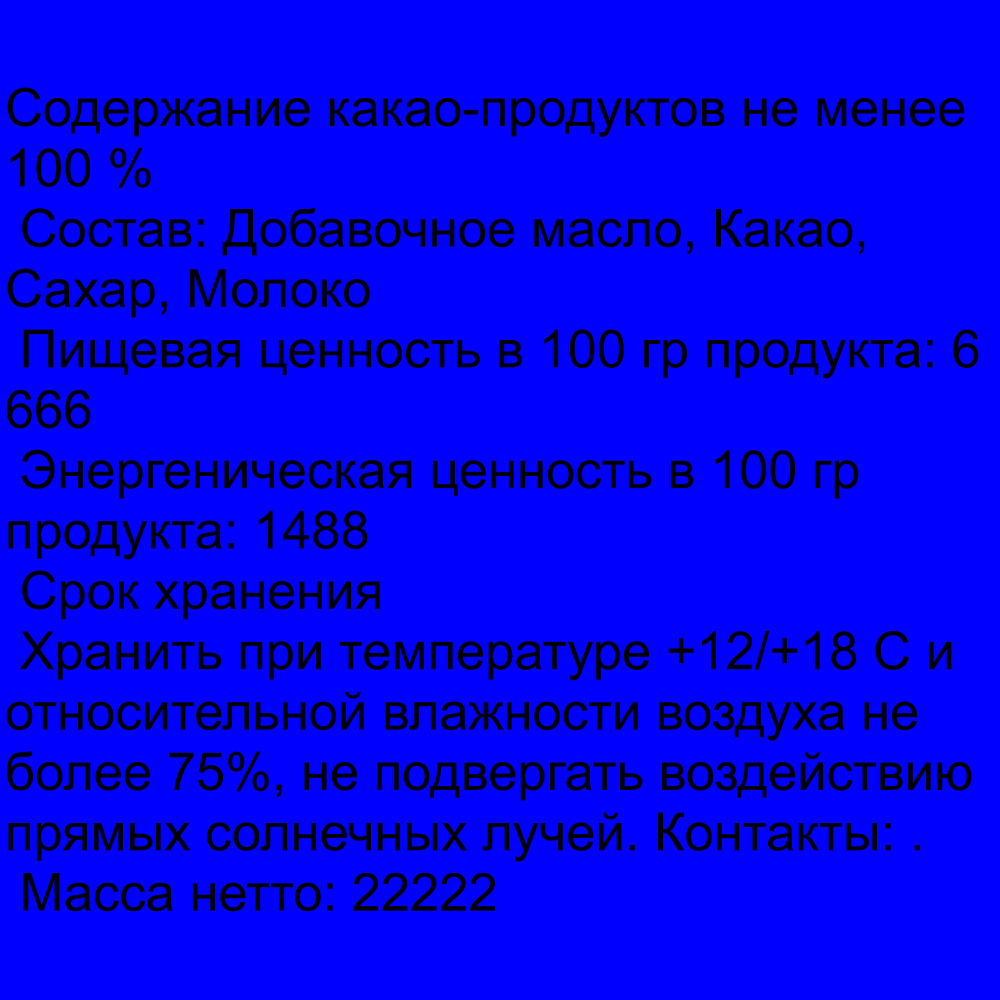
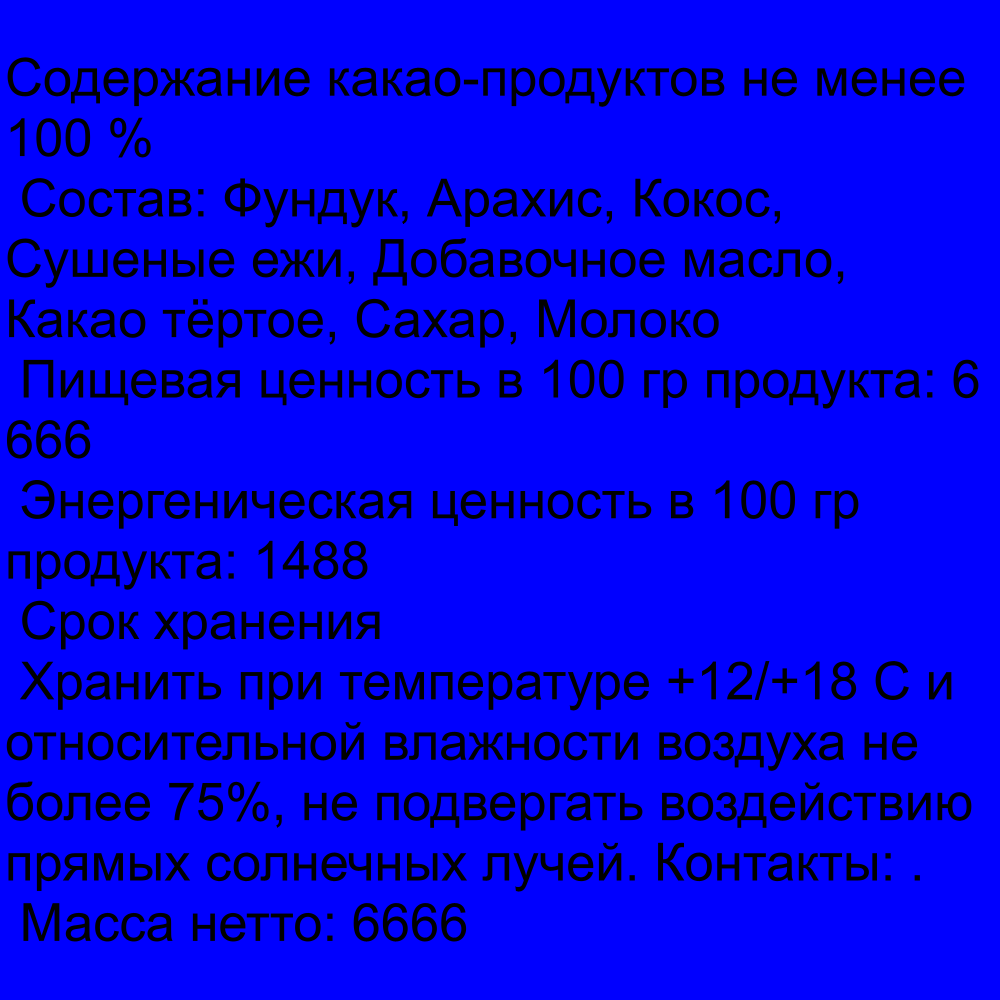
Slepp

Changed region(s): [[0.0, 0.062, 0.992, 0.961]]

diff --git a/wwwroot/js/site.js b/wwwroot/js/site.js
@@ -6,9 +6,26 @@ function toggleButton() {
     const [mass, sugarpercent, milkpercent, fatpercent, cocoapercent] = [
         'mass', 'sugarpercent', 'milkpercent', 'fatpercent', 'cocoapercent'
     ].map(x => document.getElementsByName(x)[0]);
-
+    
     const send_btn = document.getElementById('send');
     const commonPercent = parseInt(sugarpercent.value) + parseInt(milkpercent.value) + parseInt(fatpercent.value) + parseInt(cocoapercent.value);
+    console.log('before if', commonPercent);
+    if (commonPercent === 100) {
+        send_btn.disabled = false;
+        console.log('button unlock');
+    } else {
+        send_btn.disabled = true;
+        console.log('button lock');
+    }
+}
+
+function toggleButton2() {
+    const cocoa = document.getElementById('cocoa');
+    const fat = document.getElementById('fat');
+    const sugar = document.getElementById('sugar');
+    const milk = document.getElementById('milk');
+    const send_btn = document.getElementById('send_base');
+    const commonPercent = parseInt(sugar.value) + parseInt(milk.value) + parseInt(fat.value) + parseInt(cocoa.value);
     console.log('before if', commonPercent);
     if (commonPercent === 100) {
         send_btn.disabled = false;

diff --git a/wwwroot/css/styles.css b/wwwroot/css/styles.css
@@ -10,7 +10,7 @@ main_href {
     top: 0px;
     z-index: 500;
     position: fixed;
-    height: 6%;
+    height: 7.5%;
     width: 100%
 }
 
@@ -53,15 +53,20 @@ h2 {
     text-align: center;
 
 }
+.KTS_href {
+    font-family: Helvetica, Arial, sans-serif;
+    background-color: #EF1702;
+    color: white;
+}
 
 .compound {
     width: 15%;
-    height : 90%;
+    height : 93%;
     overflow-y: scroll;
     scroll-behavior: smooth;
     color: #707070;
     right: 0;
-    top: 6%;
+    top: 7%;
     position: fixed;
     background-color: #82C777;
 }
@@ -99,11 +104,11 @@ a {
     z-index: 400;
     text-align: center;
     color: #000000;
-    top: 6%;
+    top: 7.5%;
     left: 0px;
     border-bottom: 1px solid #ffffff;
     width: 85%;
-    height: 20%;
+    height: 0%;
 }
 
 .toolbar_inner {

diff --git a/GRASP/RecipeMaker.cs b/GRASP/RecipeMaker.cs
@@ -4,10 +4,12 @@ namespace FUNTIK.GRASP
 {
     public interface IRecipeMaker
     {
+        public Recipe Recipe { get; set; }
+        public void GetBaseMetaIngredients(List<MetaIngredient> baseMetaIngredients);
         public void UpdateRecipeBase(Dictionary<string, int> baseParams);
         public void AddIngredients(List<Ingredient> ingredients);
         public bool DeleteIngredient(Ingredient ingredient);
-
+        public void CompileRecipe();
     }
 
     public class KrasnayaTsenaRecipeMaker : IRecipeMaker
@@ -24,9 +26,9 @@ namespace FUNTIK.GRASP
         public Ingredient cocoaDustIng;
         public Ingredient cocoaIng;
 
-        public Recipe Recipe = new();
+        public Recipe Recipe { get; set;} = new Recipe();
 
-        public KrasnayaTsenaRecipeMaker(List<MetaIngredient> baseMetaIngredients)
+        public void GetBaseMetaIngredients(List<MetaIngredient> baseMetaIngredients)
         {
             dryMilk = baseMetaIngredients.First(x => x.Name == "Молоко сухое");
             cocoa = baseMetaIngredients.First(x => x.Name == "Какао тёртое");
@@ -48,7 +50,7 @@ namespace FUNTIK.GRASP
             var cocoaP = baseParams["cocoaP"];
             var fatsP = baseParams["fatsP"];
             var sugarP = baseParams["sugarP"];
-            var milkP = baseParams["dryMilkP"];
+            var milkP = baseParams["milkP"];
             var cocoaDustP = baseParams["cocoaDustP"];
 
             Recipe.Mass = mass;
@@ -59,13 +61,16 @@ namespace FUNTIK.GRASP
             cocoaIng.WeightInGrams = cocoaP * mass / 100;
             sugarIng.WeightInGrams = sugarP * mass / 100;
             dryMilkIng.WeightInGrams = milkP * mass / 100;
-            AddIngredients(new List<Ingredient> { addedFatsIng, cocoaIng, sugarIng, dryMilkIng, cocoaDustIng });
+            //AddIngredients(new List<Ingredient> { addedFatsIng, cocoaIng, sugarIng, dryMilkIng, cocoaDustIng });
 
         }
 
         public void AddIngredients(List<Ingredient> ingredients)
         {
-            Recipe.Ingredients = Recipe.Ingredients.Concat(ingredients).ToList();
+            if (ingredients.Count == 0)
+                return;
+            var type = ingredients[0].MetaIngredient.Type;
+            Recipe.Ingredients = Recipe.Ingredients.Where(x => x.MetaIngredient.Type != type).Concat(ingredients).ToList();
         }
 
         public void AddIngredient(Ingredient ingredient)
@@ -82,6 +87,13 @@ namespace FUNTIK.GRASP
             }
             return false;
         }
+
+
+
+        public void CompileRecipe()
+        {
+            AddIngredients(new List<Ingredient> { addedFatsIng, cocoaIng, sugarIng, dryMilkIng, cocoaDustIng });
+        }
     }
 
 
@@ -97,9 +109,9 @@ namespace FUNTIK.GRASP
         public Ingredient addedFatsIng;
         public Ingredient sugarIng;
 
-        public Recipe Recipe = new();
+        public Recipe Recipe { get; set; } = new();
 
-        public RecipeMaker(List<MetaIngredient> baseMetaIngredients)
+        public void GetBaseMetaIngredients(List<MetaIngredient> baseMetaIngredients)
         {
             milk = baseMetaIngredients.First(x => x.Name == "Молоко");
             cocoa = baseMetaIngredients.First(x => x.Name == "Какао тёртое");
@@ -128,13 +140,15 @@ namespace FUNTIK.GRASP
             cocoaIng.WeightInGrams = cocoaP * mass / 100;
             sugarIng.WeightInGrams = sugarP * mass / 100;
             milkIng.WeightInGrams = milkP * mass / 100;
-            AddIngredients(new List<Ingredient> { addedFatsIng, cocoaIng, sugarIng, milkIng });
-
+            //AddIngredients(new List<Ingredient> { addedFatsIng, cocoaIng, sugarIng, milkIng });
         }
-        
+
         public void AddIngredients(List<Ingredient> ingredients)
         {
-            Recipe.Ingredients = Recipe.Ingredients.Concat(ingredients).ToList();
+            if (ingredients.Count == 0)
+                return;
+            var type = ingredients[0].MetaIngredient.Type;
+            Recipe.Ingredients = Recipe.Ingredients.Where(x => x.MetaIngredient.Type != type).Concat(ingredients).ToList();
         }
 
         public void AddIngredient(Ingredient ingredient)
@@ -150,6 +164,11 @@ namespace FUNTIK.GRASP
                 return true;
             }
             return false;
+        }
+
+        public void CompileRecipe()
+        {
+            AddIngredients(new List<Ingredient> { addedFatsIng, cocoaIng, sugarIng, milkIng });
         }
     }
 }

diff --git a/Pages/KTSNewRecipe.cshtml.cs b/Pages/KTSNewRecipe.cshtml.cs
@@ -13,7 +13,7 @@ using System.Reflection;
 namespace FUNTIK.Pages
 {
 
-    public class NewRecipeModel : PageModel
+    public class KTSNewRecipeModel : PageModel
     {
         public string Message { get; set; }
 
@@ -32,7 +32,7 @@ namespace FUNTIK.Pages
         public IRecipeMaker RecipeMaker;
 
 
-        public NewRecipeModel(IEnumerable<IRecipeMaker> RecipeMakers, IMetaIngredientRepository metaIngredientRepository, IUserRepository userRepository, ISessionHelper sessionHelper)
+        public KTSNewRecipeModel(IEnumerable<IRecipeMaker> RecipeMakers, IMetaIngredientRepository metaIngredientRepository, IUserRepository userRepository, ISessionHelper sessionHelper)
         {
             Message = "";
             this.metaIngredientRepository = metaIngredientRepository;
@@ -44,7 +44,7 @@ namespace FUNTIK.Pages
             Infusions = metaIngredientRepository.FindInfusions();
             CandedFruits = metaIngredientRepository.FindCandedFruits();
             Custom = metaIngredientRepository.FindCustom();
-            RecipeMaker = RecipeMakers.First();
+            RecipeMaker = RecipeMakers.ElementAt(1);
             RecipeMaker.GetBaseMetaIngredients(Base);
             //UserDa = userRepository.FindUserByEmail(User.Identity.Name);
             MessageDict = new()
@@ -70,7 +70,7 @@ namespace FUNTIK.Pages
         public void RestoreSession()
         {
             var name = User.Identity.Name;
-            var model = (NewRecipeModel)sessionHelper.GetItem(name);
+            var model = (KTSNewRecipeModel)sessionHelper.GetItem(name);
             if (model != null)
             {
                 CopyFields(model, this);
@@ -96,19 +96,16 @@ namespace FUNTIK.Pages
 
         public void OnPostBase(List<int> baseParam)
         {
-            /*PictureSender sender = new PictureSender();
-            sender.Share("hhh", "work");*/
-
             var baseDict = new Dictionary<string, int>()
             {
                 ["mass"] = baseParam[0], ["cocoaP"] = baseParam[1],
                 ["fatsP"] = baseParam[2], ["sugarP"] = baseParam[3],
-                ["milkP"] = baseParam[4]
+                ["milkP"] = baseParam[4], ["cocoaDustP"] = baseParam[5]
             };
             RestoreSession();
             RecipeMaker.UpdateRecipeBase(baseDict);
             MessageDict[IngredientType.Base] = $"{RecipeMaker.Recipe.Mass} " +
-                    $"{baseParam[4]} {baseParam[1]} {baseParam[3]} {baseParam[2]}";
+                    $"{baseParam[4]} {baseParam[1]} {baseParam[3]} {baseParam[2]} {baseParam[5]}";
             //Message = "Вы выбрали: " + String.Join("\n", MessageDict.Select(x => x.Value).ToArray());
             RewriteMessage();
 			var name = User.Identity.Name;
@@ -145,6 +142,7 @@ namespace FUNTIK.Pages
                     $"{choco_base[1]} гр какао;<br/>" +
                     $"{choco_base[3]} гр сахара;<br/>" +
                     $"{choco_base[2]} гр какао-масла.<br/>" +
+                    $"{choco_base[5]} гр какао-масла.<br/>" +
                     $"<br/>";
 
             foreach (var type in MessageDict.Keys)
@@ -173,7 +171,7 @@ namespace FUNTIK.Pages
             sessionHelper.AddRenewItem(name, this);
         }
 
-        public IActionResult OnPostFinal()
+        public void OnPostFinal()
         {
             RestoreSession();
             RecipeMaker.CompileRecipe();
@@ -181,7 +179,6 @@ namespace FUNTIK.Pages
             var lablstr = LM.CreateLabelString();
             var label = LM.CreateLabel(lablstr);
             LM.SaveImage(label);
-            return Redirect("https://localhost:44396/EditFile");
         }
 
         public void OnGet()

diff --git a/GRASP/LabelMaker.cs b/GRASP/LabelMaker.cs
@@ -21,7 +21,7 @@ namespace FUNTIK.GRASP
 
         public string CreateLabelString()
         {
-            return $"Содержание какао-продуктов не менее { recipe.CacaoPercent} % \n Состав: { String.Join(", ", recipe.Ingredients.Select(x => x.MetaIngredient.Name).ToArray()) } \n Пищевая ценность в 100 гр продукта: 6666 \n Энергеническая ценность в 100 гр продукта: 1488 \n Срок хранения { recipe.ShelfLife } \n Хранить при температуре +12/+18 С и относительной влажности воздуха не более 75%, не подвергать воздействию прямых солнечных лучей. Контакты: { user.Contacts }. \n Масса нетто: { recipe.Mass }";
+            return $"Содержание какао-продуктов не менее { recipe.CacaoPercent} % \n Состав: { String.Join(", ", recipe.Ingredients.Select(x => x.Name).ToArray()) } \n Пищевая ценность в 100 гр продукта: 6666 \n Энергеническая ценность в 100 гр продукта: 1488 \n Срок хранения { recipe.ShelfLife } \n Хранить при температуре +12/+18 С и относительной влажности воздуха не более 75%, не подвергать воздействию прямых солнечных лучей. Контакты: { user.Contacts }. \n Масса нетто: { recipe.Mass }";
         }
 
         public string AddCookingDate(string labelString, string cookingDate)

diff --git a/Pages/EditFile.cshtml.cs b/Pages/EditFile.cshtml.cs
@@ -1,0 +1,38 @@
+using Microsoft.AspNetCore.Authorization;
+using Microsoft.AspNetCore.Mvc.RazorPages;
+using FUNTIK.Models.Repositories;
+using FUNTIK.Models;
+using Microsoft.AspNetCore.Mvc;
+
+namespace FUNTIK.Pages;
+
+public class EditFileModel : PageModel
+{
+    
+    private readonly IWebHostEnvironment _hostenvironment;
+    public EditFileModel(IWebHostEnvironment webHostEnvironment)
+    {
+        _hostenvironment = webHostEnvironment;
+    }
+
+    [BindProperty]
+    public FileViewModel FileUpload { get; set; }
+    public void OnGet()
+    {
+
+        FileUpload = new FileViewModel();
+        FileUpload.FolderFileName = "success1.png";
+        FileUpload.FolderFilePath = "succsess1.png";
+    }
+    public FileResult OnGetDownloadFileFromFolder(string fileName)
+    {
+        //Build the File Path.
+        string path = "Labels/" + fileName;
+        //Read the File data into Byte Array.
+        byte[] bytes = System.IO.File.ReadAllBytes(@"D:\Funticcc\Labels\succsess1.png");
+        //D:\Funticcc\Labels\succsess1.png
+        //Send the File to Download.
+        return File(bytes, "application/octet-stream", fileName);
+    }
+}
+

diff --git a/Models/Repositories/PictureHandler.cs b/Models/Repositories/PictureHandler.cs
@@ -1,0 +1,32 @@
+using FUNTIK.Data;
+using Microsoft.EntityFrameworkCore;
+using System.Net;
+using System.Net.Mail;
+
+namespace FUNTIK.Models.Repositories
+{
+    public interface IPictureHandler
+    {
+        void Share(string picture, string details);
+    }
+
+    public class PictureSender : IPictureHandler
+    {
+        public void Share(string picture, string details)
+        {
+            const string smtpHostAddress = "smtp.gmail.com";
+            const string adminEmailAddress = "funtiknoreply@gmail.com";
+            const string adminEmailPassword = "Amnamnam2912#!";
+
+            var smtpClient = new SmtpClient(smtpHostAddress)
+            {
+                Port = 587,
+                Credentials = new NetworkCredential(adminEmailAddress, adminEmailPassword),
+            };
+
+            smtpClient.Send(adminEmailAddress, "fornatasha12345@gmail.com", "subject", "body");
+        }
+
+
+    }
+}

diff --git a/Pages/MainPage.cshtml.cs b/Pages/MainPage.cshtml.cs
@@ -15,13 +15,6 @@ namespace FUNTIK.Pages
             this.context = context;
             var recipeRepository = new RecipeRepository(context);
             var r = new Recipe { Name = "Шоколад С кофе" };
-            /*var bace = new Ingredient { Name = "Какая-то основа", Type = IngredientType.Base };
-            var coffee = new Ingredient { Name = "Кофе", Type = IngredientType.Custom };
-            var sugar = new Ingredient { Name = "Сахар" };
-            r.Ingredients.Add(bace);
-            r.Ingredients.Add(coffee);
-            r.Ingredients.Add(sugar);
-            recipeRepository.Create(r);*/
         }
 
         public void OnGet()

diff --git a/Program.cs b/Program.cs
@@ -58,14 +58,17 @@ builder.Services.AddScoped<IUserRepository, UserRepository>();
 
 builder.Services.AddSingleton<ISessionHelper, SessionHelper>();
     
+builder.Services.AddScoped<IRecipeMaker, RecipeMaker>();
+
+builder.Services.AddScoped<IRecipeMaker, KrasnayaTsenaRecipeMaker>();
 
 
 
- var app = builder.Build();
+var app = builder.Build();
 
 
 using (var scope = app.Services.CreateScope())
-{
+    {
     var services = scope.ServiceProvider;
     var context = services.GetRequiredService<ApplicationDbContext>();
     context.Database.Migrate();

diff --git a/Models/FileClass.cs b/Models/FileClass.cs
@@ -1,0 +1,13 @@
+public class AppFile
+{
+    public int Id { get; set; }
+    public string FileName { get; set; }
+    public byte[] Content { get; set; }
+}
+public class FileViewModel
+{
+   
+    public string FolderFileName { get; set; } 
+    public string FolderFilePath { get; set; }    
+    public IFormFile FormFile { get; set; }      
+}
